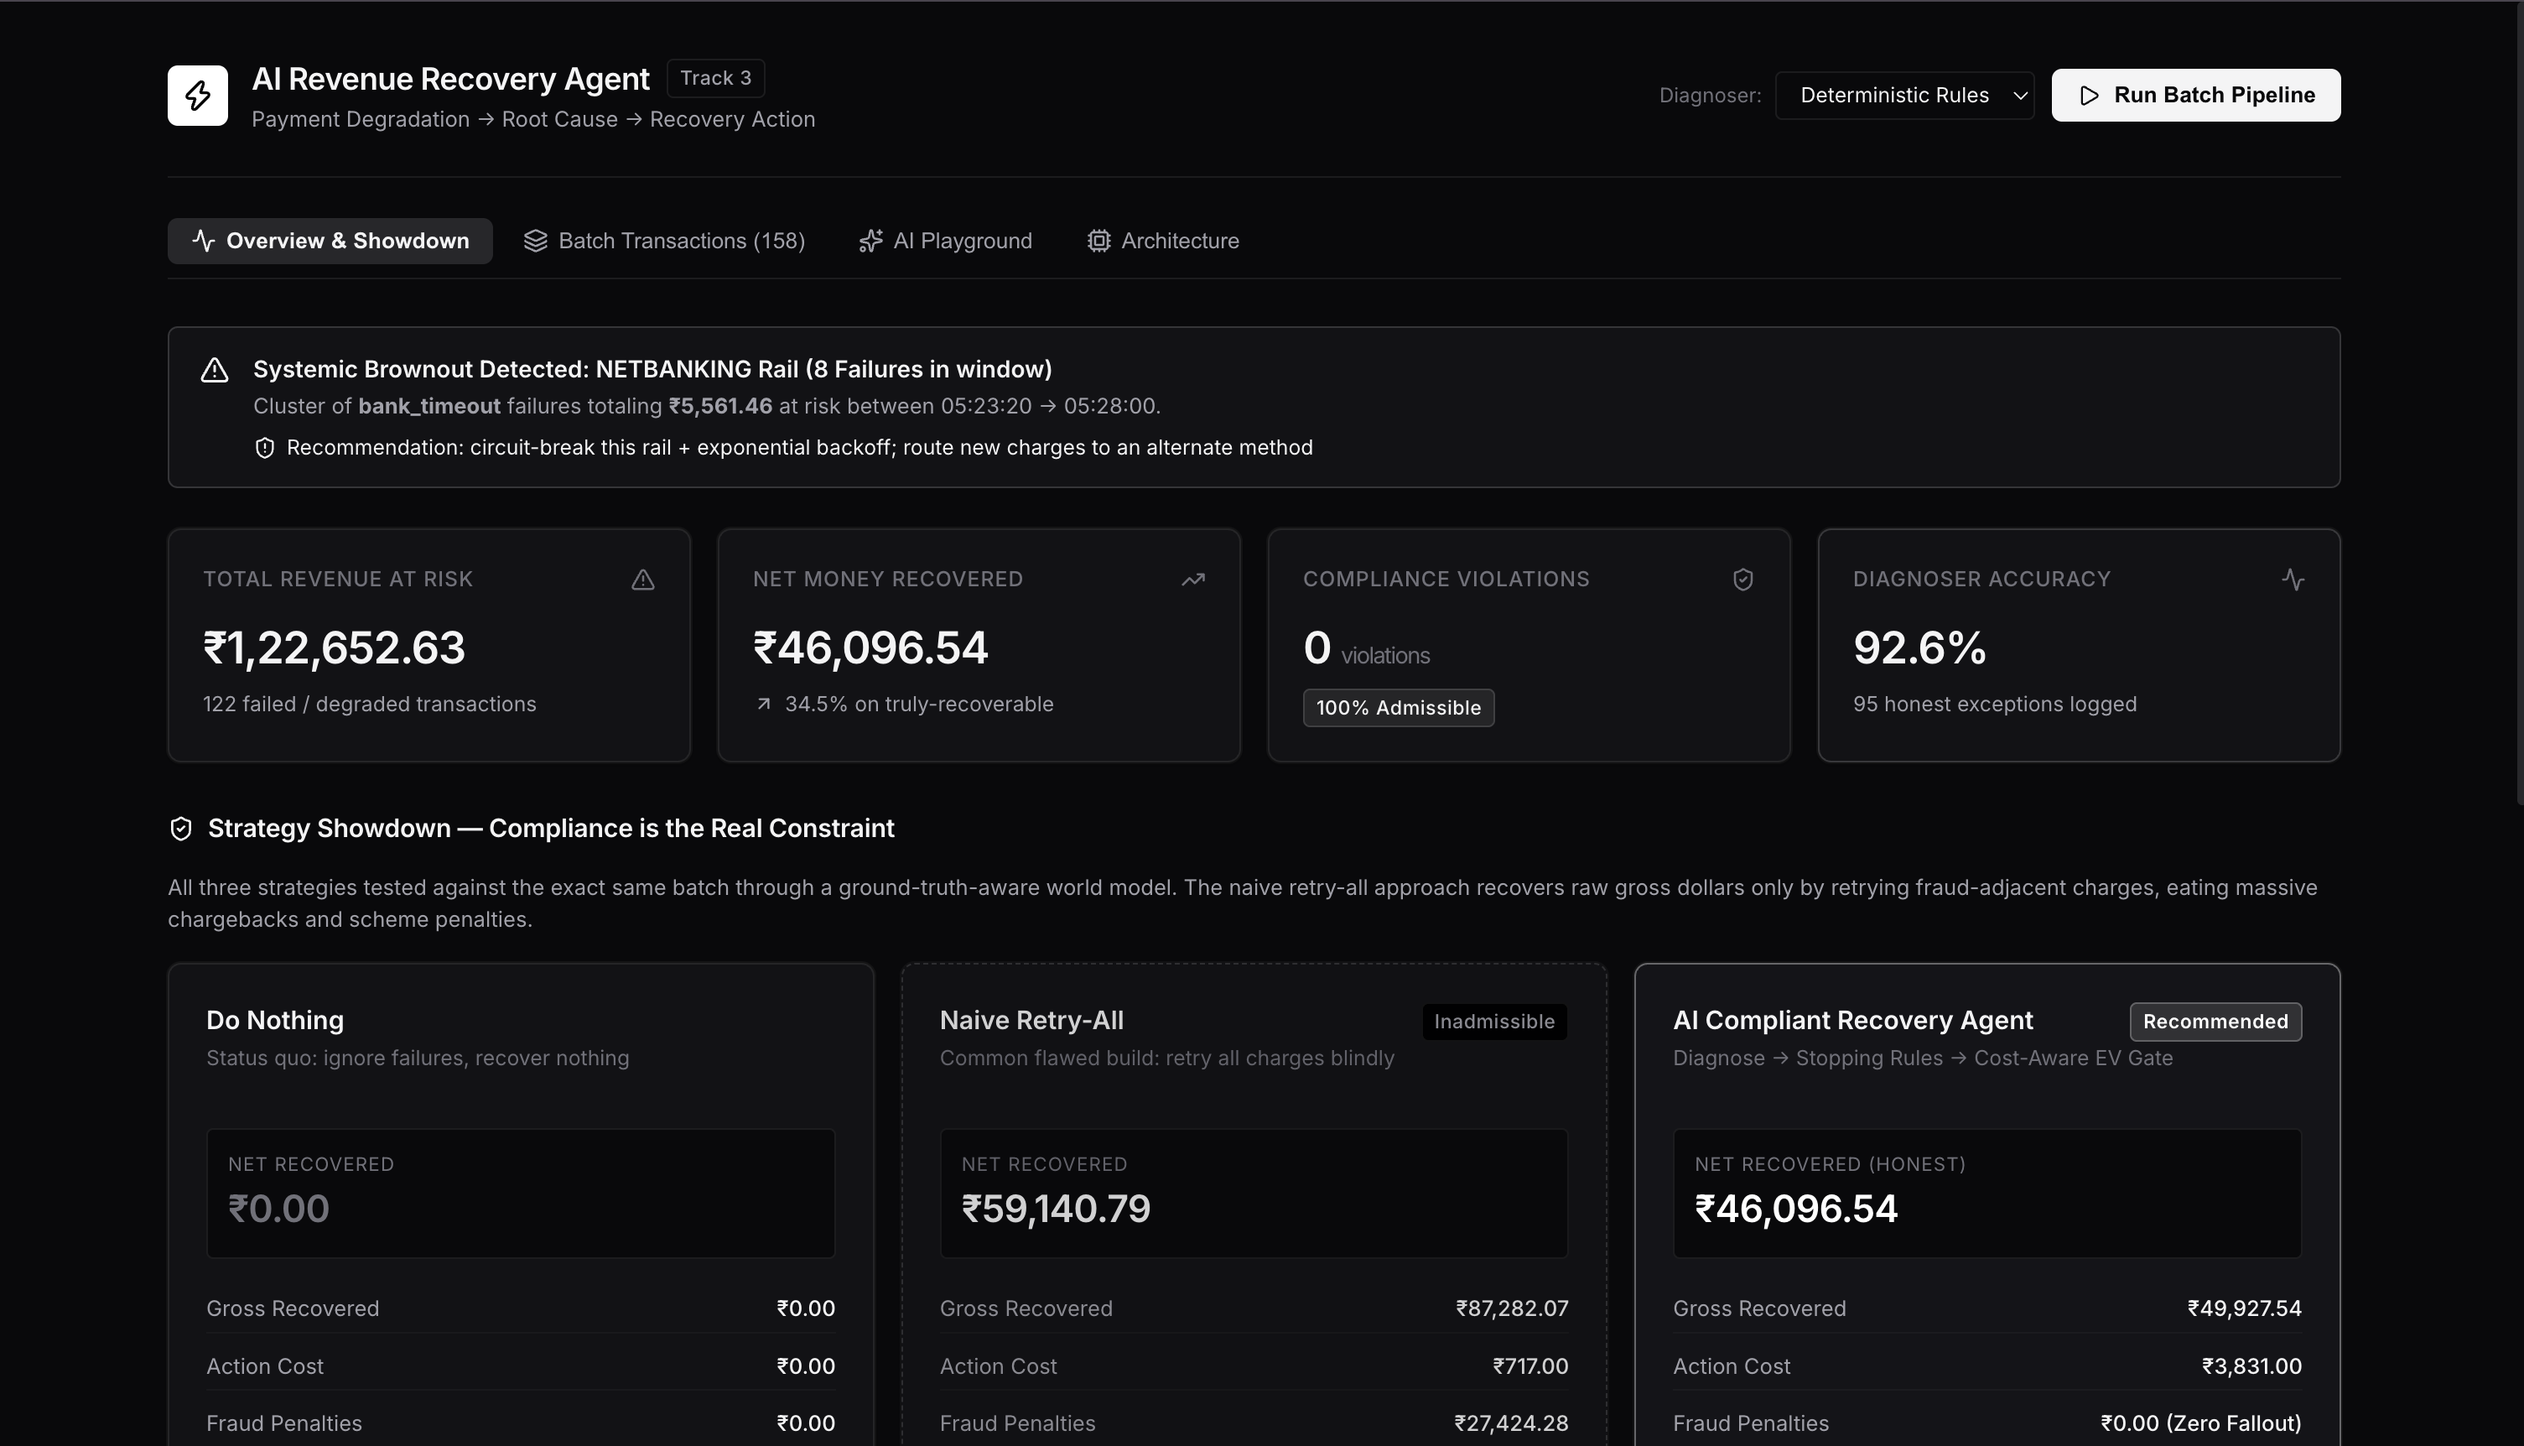
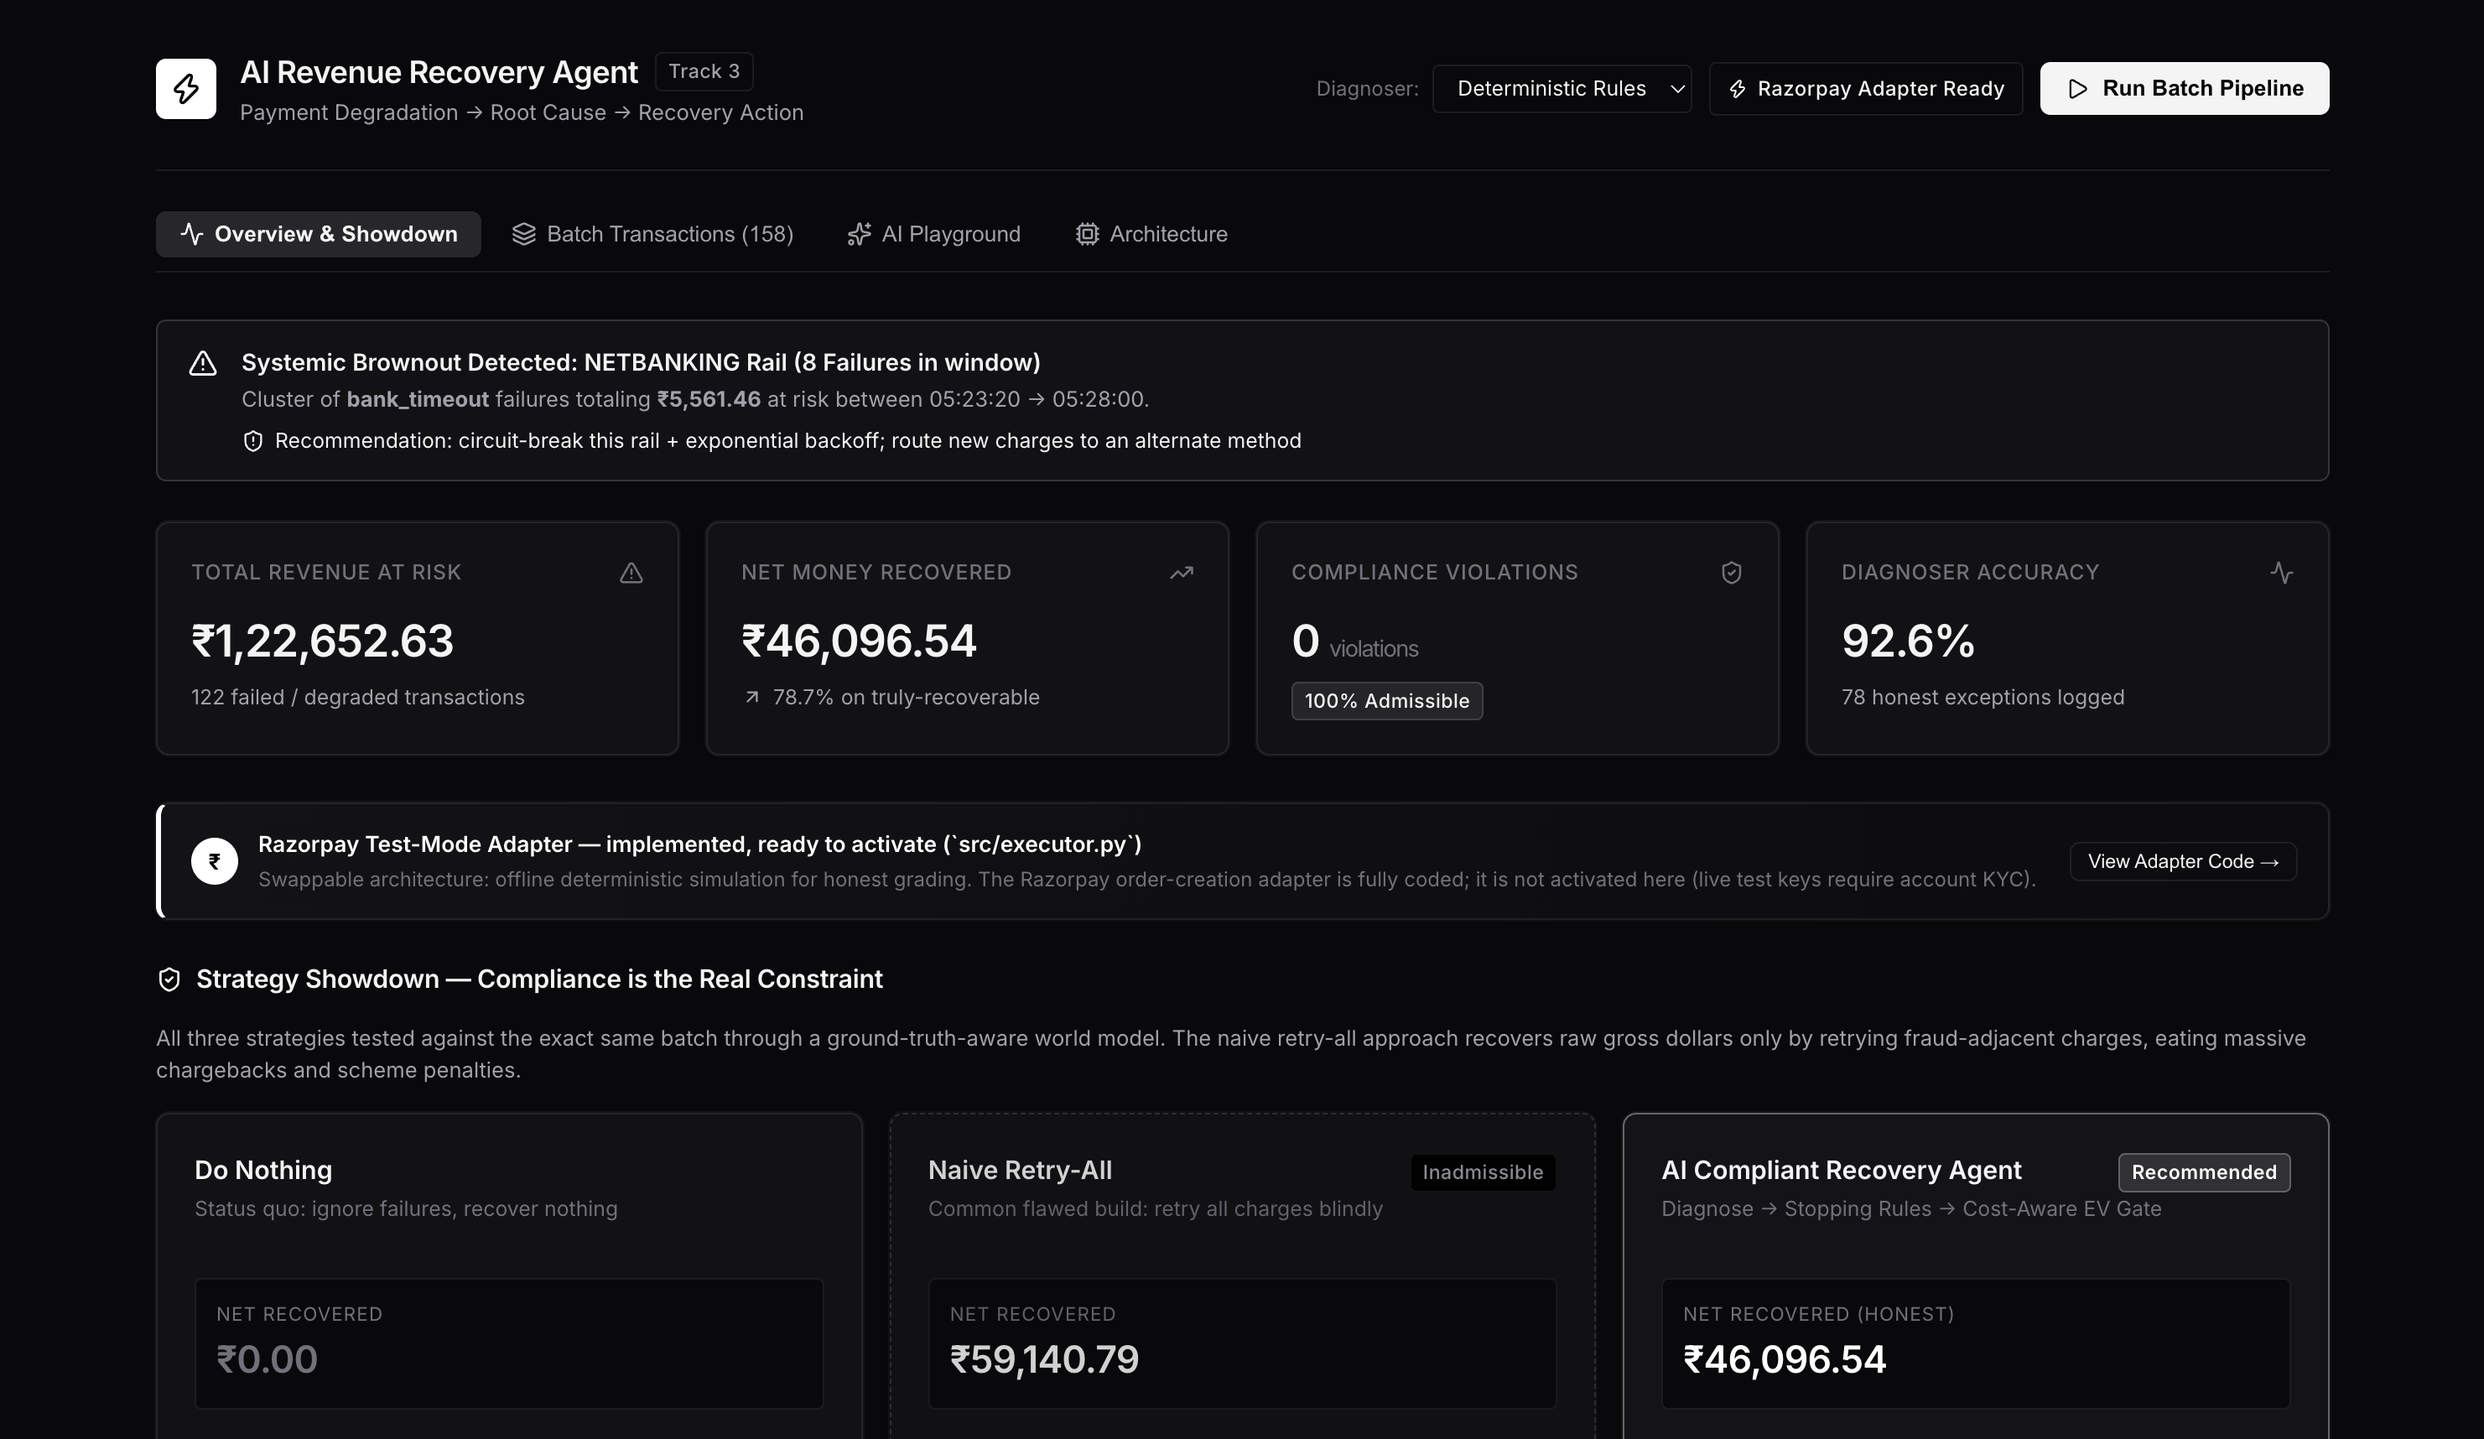
docs: update overview asset and retry attempt modeling in executor and pipeline

diff --git a/src/executor.py b/src/executor.py
@@ -35,12 +35,19 @@ class RecoveryAdapter(abc.ABC):
     """Interface for the system that actually performs a recovery action."""
 
     @abc.abstractmethod
-    def execute(self, decision: ActionDecision, amount: float) -> RecoveryOutcome:
+    def execute(self, decision: ActionDecision, amount: float,
+                attempt: int = 0) -> RecoveryOutcome:
         ...
 
-def _deterministic_unit(txn_id: str) -> float:
-    """Stable pseudo-random value in [0,1) derived from the txn id (no RNG state)."""
-    h = hashlib.sha256(txn_id.encode()).hexdigest()
+def _deterministic_unit(txn_id: str, attempt: int = 0) -> float:
+    """Stable pseudo-random value in [0,1) per (txn id, attempt).
+
+    Salting by attempt models each retry as an INDEPENDENT chance — a bank
+    timeout retried a second time genuinely has a fresh shot — which is more
+    realistic than reusing one outcome across attempts, and keeps this executor
+    consistent with the ground-truth-aware world model in `strategies.py`.
+    """
+    h = hashlib.sha256(f"{txn_id}#a{attempt}".encode()).hexdigest()
     return (int(h[:8], 16) % 10_000) / 10_000.0
 
 from src.economics import SUCCESS_PROB as _SUCCESS_PROB
@@ -48,7 +55,8 @@ from src.economics import SUCCESS_PROB as _SUCCESS_PROB
 class SimulatedAdapter(RecoveryAdapter):
     """Deterministic, offline stand-in for real payment-recovery calls."""
 
-    def execute(self, decision: ActionDecision, amount: float) -> RecoveryOutcome:
+    def execute(self, decision: ActionDecision, amount: float,
+                attempt: int = 0) -> RecoveryOutcome:
         action = decision.action
         txn_id = decision.transaction_id
 
@@ -59,11 +67,10 @@ class SimulatedAdapter(RecoveryAdapter):
             return RecoveryOutcome(txn_id, action, RESULT_STILL_FAILED, 0.0)
 
         if action == ACTION_NOTIFY_CUSTOMER:
-
             return RecoveryOutcome(txn_id, action, RESULT_STILL_FAILED, 0.0)
 
         prob = _SUCCESS_PROB.get(action, 0.0)
-        roll = _deterministic_unit(txn_id)
+        roll = _deterministic_unit(txn_id, attempt)
         if roll < prob:
             return RecoveryOutcome(txn_id, action, RESULT_RECOVERED, round(amount, 2))
         return RecoveryOutcome(txn_id, action, RESULT_STILL_FAILED, 0.0)
@@ -98,7 +105,8 @@ class RazorpayTestModeAdapter(RecoveryAdapter):
                                "(rzp_test_...), never live keys.")
         self._client = razorpay.Client(auth=(key_id, key_secret))
 
-    def execute(self, decision: ActionDecision, amount: float) -> RecoveryOutcome:
+    def execute(self, decision: ActionDecision, amount: float,
+                attempt: int = 0) -> RecoveryOutcome:
         action = decision.action
         txn_id = decision.transaction_id
         if action in (ACTION_ESCALATE_HUMAN,):
@@ -126,8 +134,9 @@ class RecoveryExecutor:
     def __init__(self, adapter: RecoveryAdapter | None = None):
         self.adapter = adapter or SimulatedAdapter()
 
-    def run(self, decision: ActionDecision, amount: float) -> RecoveryOutcome:
-        return self.adapter.execute(decision, amount)
+    def run(self, decision: ActionDecision, amount: float,
+            attempt: int = 0) -> RecoveryOutcome:
+        return self.adapter.execute(decision, amount, attempt)
 
 def get_default_executor() -> RecoveryExecutor:
     return RecoveryExecutor(SimulatedAdapter())

diff --git a/src/pipeline.py b/src/pipeline.py
@@ -82,7 +82,7 @@ def process_event(event: PaymentEvent, diagnoser, executor, audit: AuditLog) -> 
     while True:
         attempt += 1
         decision = decide(diagnosis, retry_count, event.amount)
-        outcome = executor.run(decision, event.amount)
+        outcome = executor.run(decision, event.amount, attempt)
 
         audit.write(AuditRecord(
             transaction_id=event.transaction_id,
@@ -103,7 +103,7 @@ def process_event(event: PaymentEvent, diagnoser, executor, audit: AuditLog) -> 
         if retry_count > MAX_RETRIES:
 
             final = decide(diagnosis, retry_count, event.amount)
-            final_outcome = executor.run(final, event.amount)
+            final_outcome = executor.run(final, event.amount, attempt + 1)
             audit.write(AuditRecord(
                 transaction_id=event.transaction_id,
                 timestamp=_now_iso(),
